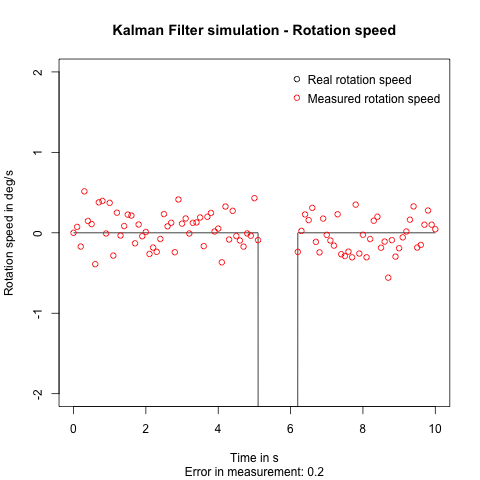
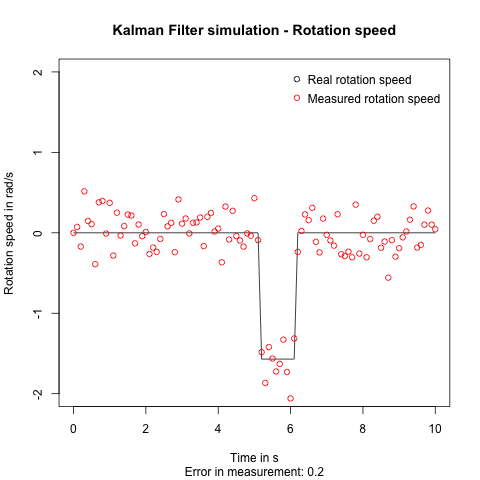
Implement matrix A and change rotations to rad

Changed region(s): [[0.5312, 0.5, 0.625, 0.8438], [0.0, 0.3438, 0.0312, 0.625]]

diff --git a/2d_filter/c_code/src/main.cpp b/2d_filter/c_code/src/main.cpp
@@ -2,6 +2,8 @@
 #include <random>
 #include"../../../libraries/BasicLinearAlgebra-3.6/BasicLinearAlgebra.h"
 
+#define PI 3.14159
+
 using namespace BLA;
 using namespace std;
 
@@ -9,6 +11,13 @@ default_random_engine rng;
 
 void print_measurements(float time, Matrix<2,1> actual, Matrix<2,1> erroneous, float acc_error, float rot_error){
     printf("%f, %f, %f, %f, %f, %f, %f\n", time, actual(0), actual(1), erroneous(0), acc_error, erroneous(1), rot_error);
+}
+
+void print_8by8(Matrix<8,8> M){
+    for (int i = 0; i < 8; i++){
+        printf("( %f, %f, %f, %f, %f, %f, %f, %f )\n", M(i,0), M(i,1), M(i,2), M(i,3), M(i,4), M(i,5), M(i,6), M(i,7));
+    }
+    
 }
 
 Matrix<2,1> calculate_actual_measurements(float time){
@@ -20,7 +29,7 @@ Matrix<2,1> calculate_actual_measurements(float time){
     }else if ((time>4 && time<5) || (time>8 && time<9)){
         z(0) = -1.0;
     }else if (time>5 && time<6){
-        z(1) = -90.0;
+        z(1) = - PI / 2;
     }
     
     return z;
@@ -38,6 +47,42 @@ Matrix<2,1> calculate_erroneous_measurements(float time, float acc_error, float 
     return z;
 }
 
+Matrix<8,8> get_A_matrix(float delta_t, float phi){
+    Matrix<8,8> A;
+    A.Fill(0.0);
+
+    float cos_phi = cos(phi);
+    float sin_phi = sin(phi);
+
+    A(0,0) = 1.0;
+    A(0,2) = delta_t * cos_phi;
+    A(0,3) = delta_t * (- sin_phi);
+    A(0,4) = 0.5 * delta_t * delta_t * cos_phi;
+    A(0,5) = 0.5 * delta_t * delta_t * (- sin_phi);
+    A(1,1) = 1.0;
+    A(1,2) = delta_t * sin_phi;
+    A(1,3) = delta_t * cos_phi;
+    A(1,4) = 0.5 * delta_t * delta_t * sin_phi;
+    A(1,5) = 0.5 * delta_t * delta_t * cos_phi;
+    A(2,2) = cos_phi;
+    A(2,3) = - sin_phi;
+    A(2,4) = delta_t * cos_phi;
+    A(2,5) = delta_t * (- sin_phi);
+    A(3,2) = sin_phi;
+    A(3,3) = cos_phi;
+    A(3,4) = delta_t * sin_phi;
+    A(3,5) = delta_t * cos_phi;
+    A(4,4) = cos_phi;
+    A(4,5) = - sin_phi;
+    A(5,4) = sin_phi;
+    A(5,5) = cos_phi;
+    A(6,6) = 1.0;
+    A(6,7) = delta_t;
+    A(7,7) = 1.0;
+
+    return A;
+}
+
 int main (int argc, char *argv[]){
     float time = 0.0;
     float delta_t = 0.1;
@@ -50,6 +95,9 @@ int main (int argc, char *argv[]){
     z_erroneous.Fill(0.0);
 
     printf("Time, ActualAcc, ActualRot, ErroneousAcc, ErrorAcc, ErroneousRot, ErrorRot\n");
+
+    print_8by8(get_A_matrix(delta_t, PI/2));
+    return 1;
 
     for (int i = 0; i < 101; i++){
         print_measurements(time, z_actual, z_erroneous, acc_measurement_error, rot_measurement_error);

diff --git a/2d_filter/About2DFilter.md b/2d_filter/About2DFilter.md
@@ -70,5 +70,3 @@ The two measurements are simulated in a ways which is plotted here:
 
 ![](images/plot_acc.png)
 ![](images/plot_rot.png)
-
-Note that the rotation speed actually goes down to -90, but if the plot where to show everything, the variation in the measurements around the actual value would be lost.
